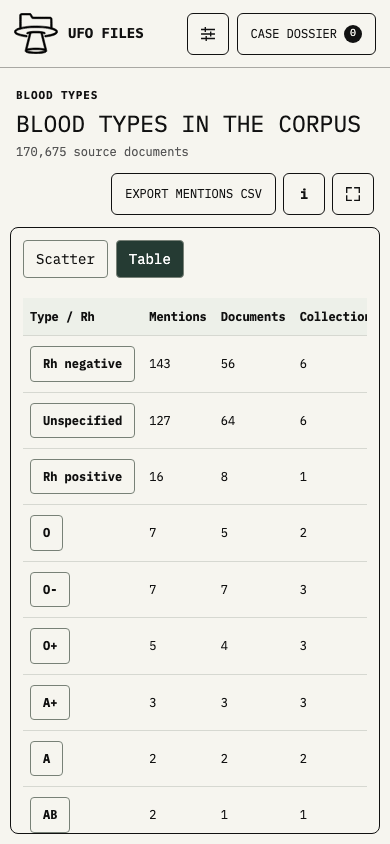
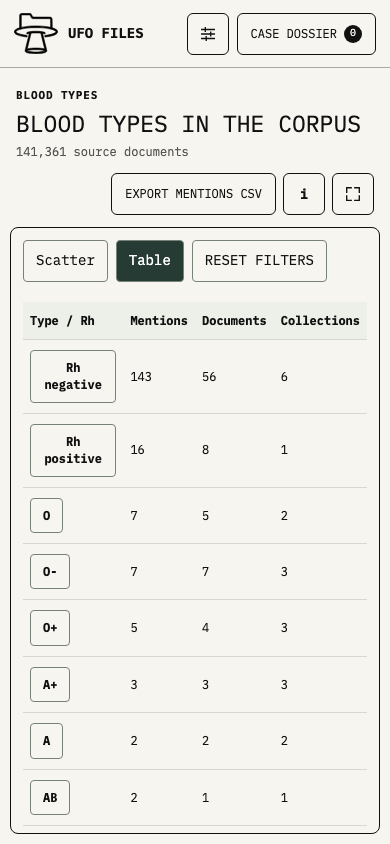
Remove unspecified types, inline excerpts, and scatter reference line

diff --git a/app.js b/app.js
@@ -432,6 +432,7 @@ function loadConfig() {
       const saved = JSON.parse(decodeURIComponent(escape(atob(param))));
       if (saved.allSources === undefined) saved.allSources = !saved.sources?.length;
       const config = { ...DEFAULT, ...saved };
+      if (config.type === "blood" && config.bloodType === "Unspecified") config.bloodType = "all";
       if (saved.type === "solar" && !Object.hasOwn(saved, "solarScale")) config.solarScale = "local";
       if (!["none", "hill_fish"].includes(config.solarCase)) config.solarCase = DEFAULT.solarCase;
       config.sourceFamilyPolicy = SOURCE_FAMILY_POLICY_VERSION;
@@ -1425,7 +1426,7 @@ function renderControls() {
     ${["triage", "claims", "craft", "species", "signals", "coverage", "programs"].includes(state.config.type) ? "" : `<div class="control duplicate-review-control"><div class="control-title">Identity review <span>${duplicateCount} flagged</span></div><button class="button review-button" type="button" data-review-duplicates ${duplicateCount ? "" : "disabled"}>Review possible duplicates</button></div>`}`;
 
   if (state.config.type === "blood") {
-    const types = [...new Set((state.catalog.bloodTypes?.observations || []).map(item => item.bloodType))].sort();
+    const types = [...new Set((state.catalog.bloodTypes?.observations || []).map(item => item.bloodType).filter(specifiedBloodType))].sort();
     $("#filterControls").innerHTML = controlSelect("bloodType", "Blood type / Rh", [{ value: "all", label: "All mentions" }, ...types.map(value => ({ value, label: value }))])
       + `<div class="control"><label for="bloodSearch">Search evidence</label><input id="bloodSearch" class="text-input" type="search" value="${escapeHTML(state.config.bloodSearch)}" placeholder="Search excerpt, title, or collection" data-blood-search></div><div class="control"><div class="control-title">Collections <span>${selectedSourceCount} / ${sourceNames.length} selected</span></div><div class="check-grid">${sourceChecks}</div></div>`;
   }
@@ -4328,10 +4329,15 @@ function filteredBloodMentions(catalog = state.catalog, config = state.config) {
   const query = String(config.bloodSearch || "").trim().toLowerCase();
   const documents = new Map((catalog.documents || []).map(item => [item.id, item]));
   return (catalog.bloodTypes?.observations || []).filter(item =>
-    sourceIsSelected(item.source, config.sources, config.allSources)
+    specifiedBloodType(item.bloodType)
+    && sourceIsSelected(item.source, config.sources, config.allSources)
     && (config.bloodType === "all" || item.bloodType === config.bloodType)
     && (!query || [item.excerpt, item.source, documents.get(item.documentId)?.title, documents.get(item.documentId)?.path]
       .some(value => String(value || "").toLowerCase().includes(query))));
+}
+
+function specifiedBloodType(value) {
+  return /^(?:(?:AB|A|B|O)[+-]?|Rh (?:positive|negative))$/.test(String(value || ""));
 }
 
 function bloodMentionGroups(observations) {
@@ -4347,7 +4353,7 @@ function bloodMentionGroups(observations) {
 function bloodOverviewHTML(observations, config) {
   const groups = bloodMentionGroups(observations);
   const table = config.bloodView === "table";
-  return `<section aria-label="Blood type overview"><div class="blood-view-switch" role="group" aria-label="Blood type view">${["scatter", "table"].map(view => `<button type="button" data-blood-view="${view}" aria-pressed="${(table ? "table" : "scatter") === view}">${view === "scatter" ? "Scatter" : "Table"}</button>`).join("")}</div>
+  return `<section aria-label="Blood type overview"><div class="blood-view-switch" role="group" aria-label="Blood type view">${["scatter", "table"].map(view => `<button type="button" data-blood-view="${view}" aria-pressed="${(table ? "table" : "scatter") === view}">${view === "scatter" ? "Scatter" : "Table"}</button>`).join("")}<button class="button" type="button" data-blood-reset>Reset filters</button></div>
     ${table ? `<div class="blood-overview"><table><thead><tr><th scope="col">Type / Rh</th><th scope="col">Mentions</th><th scope="col">Documents</th><th scope="col">Collections</th></tr></thead><tbody>${groups.map(group => `<tr><th scope="row"><button type="button" data-blood-pick="${escapeHTML(group.type)}">${escapeHTML(group.type)}</button></th><td>${formatNumber(group.mentions)}</td><td>${formatNumber(group.documents.size)}</td><td>${formatNumber(group.sources.size)}</td></tr>`).join("")}</tbody></table></div>` : `<svg class="blood-scatter" role="group" aria-label="Blood type mentions versus distinct documents"></svg>`}
   </section>`;
 }
@@ -4377,7 +4383,6 @@ function drawBloodScatter(svg, observations, config) {
     svg.append(el("text", { x: x(value), y: height - margin.bottom + 20, "text-anchor": "middle", class: "blood-axis" }, String(value)));
     svg.append(el("text", { x: margin.left - 10, y: y(value) + 4, "text-anchor": "end", class: "blood-axis" }, String(value)));
   });
-  svg.append(el("line", { x1: x(1), y1: y(1), x2: x(maximum), y2: y(maximum), class: "blood-diagonal" }));
   svg.append(el("text", { x: (width + margin.left - margin.right) / 2, y: height - 12, "text-anchor": "middle", class: "blood-axis-title" }, "Distinct documents · log scale"));
   svg.append(el("text", { x: 16, y: height / 2, transform: `rotate(-90 16 ${height / 2})`, "text-anchor": "middle", class: "blood-axis-title" }, "Phrase mentions · log scale"));
   const labels = [];
@@ -4409,22 +4414,21 @@ function renderBloodTypes() {
   $("#chartWrap").classList.add("table-mode");
   $("#legend").innerHTML = "";
   const available = Boolean(state.catalog.bloodTypes);
-  const pageSize = 50;
-  let shown = pageSize;
-  const cards = rows => rows.map(item => {
-    const doc = state.documentById.get(item.documentId);
-    const url = doc ? machineDataDocumentURL(doc) : "";
-    return `<article class="evidence-card blood-evidence"><h3>${escapeHTML(item.bloodType)} <small>${escapeHTML(item.matchedText)}</small></h3><p>${escapeHTML(item.excerpt)}</p><small>${escapeHTML(doc?.title || item.documentId)} · ${escapeHTML(item.source)} · segment ${escapeHTML(String(item.segment))}</small>${url ? `<a href="${escapeHTML(url)}" target="_blank" rel="noopener noreferrer">Source ↗</a>` : ""}</article>`;
-  }).join("");
   queue.innerHTML = `<div class="blood-view">
     ${overviewItems.length ? bloodOverviewHTML(overviewItems, state.config) : ""}
     ${items.length ? "" : `<p role="status">${available ? "No matches." : "Blood type data unavailable."}</p>`}
-    <div class="blood-evidence-heading" role="region" aria-label="Selected source excerpts" tabindex="-1"><h2>Source excerpts${state.config.bloodType === "all" ? "" : ` · ${escapeHTML(state.config.bloodType)}`}</h2><button class="button" data-blood-reset type="button">Reset filters</button></div><p data-blood-page-count></p><div data-blood-evidence>${cards(items.slice(0, shown))}</div><button class="button" type="button" data-blood-more ${items.length <= shown ? "hidden" : ""}>Show more excerpts</button></div>`;
+  </div>`;
   const selectEvidence = type => {
-    state.config.bloodType = state.config.bloodType === type ? "all" : type;
+    state.config.bloodType = type;
+    const observations = filteredBloodMentions();
     renderControls(); commitConfig(false);
-    const heading = $("#tableView").querySelector(".blood-evidence-heading");
-    heading.scrollIntoView({ block: "start" });
+    showInspector("blood type", type, [
+      [observations.length, "mentions"],
+      [new Set(observations.map(item => item.documentId)).size, "documents"],
+      [new Set(observations.map(item => item.source)).size, "collections"]
+    ], observations);
+    const heading = $("#inspectorContent h3");
+    heading.setAttribute("tabindex", "-1");
     heading.focus({ preventScroll: true });
   };
   const scatter = queue.querySelector(".blood-scatter");
@@ -4437,18 +4441,14 @@ function renderBloodTypes() {
   });
   queue.querySelectorAll("[data-blood-view]").forEach(button => button.addEventListener("click", () => {
     state.config.bloodView = button.dataset.bloodView;
+    closeInspector();
     persistHash(); renderGraph();
     queue.querySelector(`[data-blood-view="${state.config.bloodView}"]`).focus({ preventScroll: true });
   }));
-  queue.querySelector("[data-blood-reset]").addEventListener("click", () => {
+  queue.querySelector("[data-blood-reset]")?.addEventListener("click", () => {
     Object.assign(state.config, { bloodType: "all", bloodSearch: "", sources: [], allSources: true });
+    closeInspector();
     renderControls(); commitConfig(false);
-  });
-  const updateCount = () => { queue.querySelector("[data-blood-page-count]").textContent = `${Math.min(shown, items.length)} / ${formatNumber(items.length)} mentions`; };
-  updateCount();
-  queue.querySelector("[data-blood-more]").addEventListener("click", event => {
-    queue.querySelector("[data-blood-evidence]").insertAdjacentHTML("beforeend", cards(items.slice(shown, shown + pageSize)));
-    shown += pageSize; event.target.hidden = shown >= items.length; updateCount();
   });
   setSummary(`${formatNumber(items.length)} mentions · ${formatNumber(new Set(items.map(item => item.documentId)).size)} documents · ${formatNumber(new Set(items.map(item => item.source)).size)} collections`, "blood");
 }

diff --git a/styles.css b/styles.css
@@ -714,12 +714,11 @@ body.graph-fullscreen #chart { min-height: 0; }
   .stage-tools { width: 100%; justify-content: flex-end; }
 }
 .blood-view { padding: 20px; max-width: 1100px; margin: auto; }
-.blood-view-switch { display: flex; gap: 8px; margin-bottom: 14px; }
+.blood-view-switch { display: flex; flex-wrap: wrap; gap: 8px; margin-bottom: 14px; }
 .blood-view-switch button, .blood-overview button { font: inherit; padding: 8px 12px; border: 1px solid #788177; border-radius: 4px; background: transparent; cursor: pointer; }
 .blood-view-switch button[aria-pressed="true"] { background: #253b33; color: white; }
 .blood-scatter { display: block; width: 100%; overflow: visible; }
 .blood-grid { stroke: #d7dbd2; stroke-width: 1; }
-.blood-diagonal { stroke: #929b8e; stroke-dasharray: 5 5; }
 .blood-axis, .blood-scatter-point text { font-size: 11px; fill: #28352c; }
 .blood-axis-title { font-size: 12px; fill: #28352c; }
 .blood-scatter-point { cursor: pointer; }
@@ -730,17 +729,10 @@ body.graph-fullscreen #chart { min-height: 0; }
 .blood-scatter-point:hover circle, .blood-scatter-point:focus circle, .blood-scatter-point[aria-pressed="true"] circle { fill: #111; stroke: #111; }
 .blood-scatter-point:focus { outline: none; }
 .blood-scatter-point:focus text { text-decoration: underline; }
-.blood-evidence-heading { display: flex; align-items: center; justify-content: space-between; flex-wrap: wrap; gap: 10px; margin-top: 28px; }
-.blood-evidence-heading h2 { font-size: 18px; }
 .blood-overview { overflow-x: auto; margin: 20px 0 28px; }
 .blood-overview table { width: 100%; border-collapse: collapse; font-variant-numeric: tabular-nums; }
 .blood-overview th, .blood-overview td { text-align: left; padding: 12px; border-bottom: 1px solid #d6d8d1; }
 .blood-overview thead { background: #edf0e9; }
-.blood-evidence { margin-bottom: 14px; overflow-wrap: anywhere; }
-.blood-evidence h3 { display: flex; flex-wrap: wrap; align-items: baseline; gap: 12px; }
-.blood-evidence h3 small { font-weight: normal; }
-.blood-evidence p { white-space: pre-wrap; line-height: 1.6; }
-.blood-evidence > small, .blood-evidence > a { display: block; margin-top: 10px; }
 @media (max-width: 600px) {
   .blood-view { padding: 12px; }
   .blood-overview th, .blood-overview td { padding: 10px 7px; font-size: 12px; }

diff --git a/tests/test_app.js b/tests/test_app.js
@@ -4915,10 +4915,13 @@ test("Blood type filters and aggregates keep repeats distinct from documents", (
   const catalog = { documents: [{ id: "d1", title: "Witness interview" }], bloodTypes: { observations: [
     { bloodType: "O-", documentId: "d1", source: "A", excerpt: "blood type O negative" },
     { bloodType: "O-", documentId: "d1", source: "A", excerpt: "blood type O negative again" },
-    { bloodType: "Rh negative", documentId: "d2", source: "B", excerpt: "Rh negative" }
+    { bloodType: "Rh negative", documentId: "d2", source: "B", excerpt: "Rh negative" },
+    { bloodType: "Unspecified", documentId: "d1", source: "A", excerpt: "blood types" }
   ] } };
   const config = { bloodType: "all", bloodSearch: "", allSources: true, sources: [] };
   const rows = context.filteredBloodMentions(catalog, config);
+  assert.equal(rows.length, 3);
+  assert.equal(rows.some(item => item.bloodType === "Unspecified"), false);
   const groups = context.bloodMentionGroups(rows);
   assert.equal(groups[0].mentions, 2);
   assert.equal(groups[0].documents.size, 1);

diff --git a/README.md b/README.md
@@ -202,7 +202,7 @@ This view summarizes how corpus sources and the externally documented baseline d
 
 ## Blood types in the corpus
 
-Choose **Blood types** to explore ABO and Rh references in a scatter chart or table. The scatter plots distinct documents against phrase mentions, with logarithmic axes to keep rare types visible. Node area represents the number of collections. Labels preserve exact coordinates even when several types share a point. Select a point or table row to inspect the source excerpts. Collection, type, and text filters persist in shared links; CSV export includes all matching mentions. Counts describe corpus text, not population prevalence or independent corroboration.
+Choose **Blood types** to explore ABO and Rh references in a scatter chart or table. The scatter plots distinct documents against phrase mentions, with logarithmic axes to keep rare types visible. Node area represents the number of collections. Labels preserve exact coordinates even when several types share a point. Select a point or table row to open its evidence inspector. Generic references without a named ABO or Rh value are excluded from the views, counts, filters, and CSV. Collection, type, and text filters persist in shared links; CSV export includes all matching mentions. Counts describe corpus text, not population prevalence or independent corroboration.
 
 The catalog builder extracts explicit English blood type/group phrases and Rh-positive/negative references. ABO letters require a blood cue, and polarity-only references require nearby blood/Rh context. Generic blood-type references stay unspecified, and Rh-only references never acquire an inferred ABO type. Questions, denials, repeated statements, and speculative claims remain visible in their source context. English derivatives are included through the existing language policy; untranslated text, OCR corruption, and references split across segments can be missed. Extraction does not establish anyone's blood type or verify biological claims.
 
